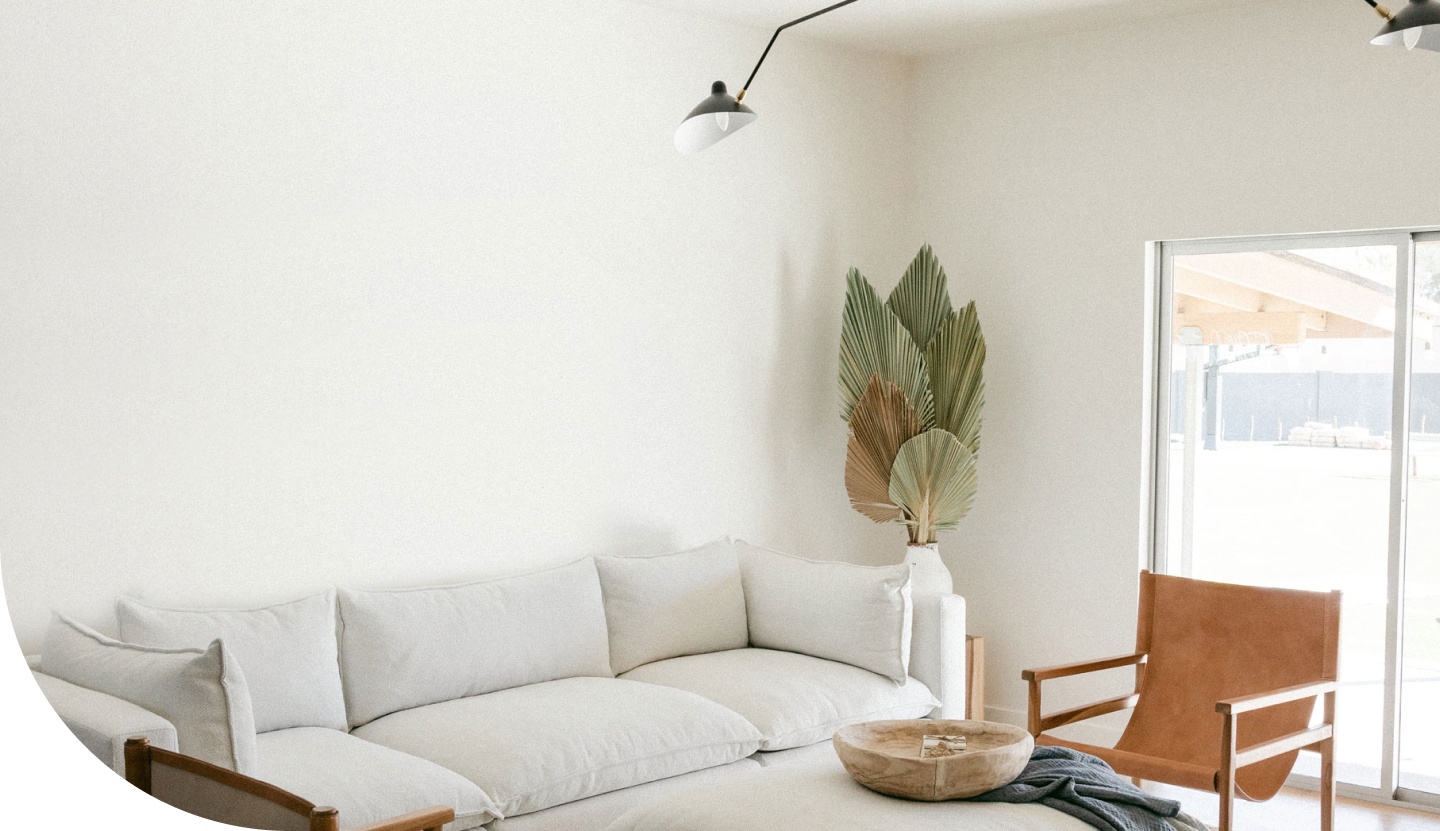
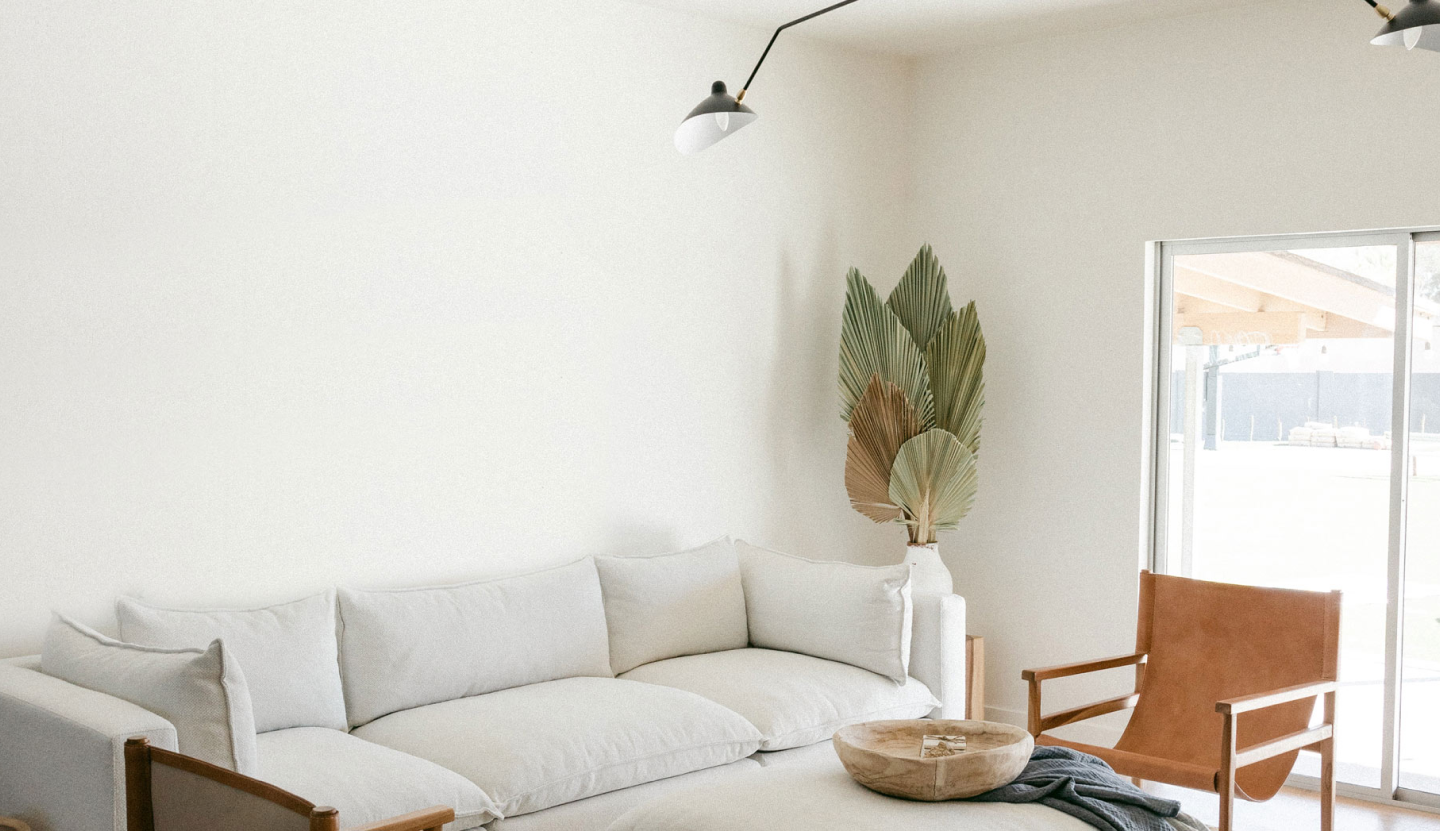
fix

Changed region(s): [[0.0, 0.722, 0.1875, 1.0]]

diff --git a/index.html b/index.html
@@ -14,7 +14,7 @@
             <a href="">
                 <img src="Assets/Images/header/logo.png" alt="">
             </a>
-            <nav class="flex items-center gap-10 text-[#292F36] max-lg:flex-col bg-white max-lg:absolute max-lg:w-full top-0 left-0 max-lg:-translate-y-full transition-all duration-500 max-lg:border-t-2 border-[#292F36] max-lg:py-4" id="menu">
+            <nav class="flex items-center gap-10 text-[#292F36] max-lg:flex-col bg-white max-lg:absolute max-lg:w-full top-0 left-0 max-lg:-translate-y-full transition-all duration-500 max-lg:border-t-2 border-[#292F36] max-lg:py-4 md:text-lg lg:text-xl" id="menu">
                 <a href="" class="text-[#CDA274]">Home</a>
                 <a href="" class="duration-500 transition-all hover:text-[#CDA274]">About Us</a>
                 <a href="" class="duration-500 transition-all hover:text-[#CDA274]">Services</a>
@@ -29,14 +29,14 @@
         </div>
     </header>  
 
-    <div class="w-full bg-[url(Assets/Images/started/main.png)] bg-cover bg-left">
+    <div class="w-full bg-[url(Assets/Images/started/main.png)] bg-cover bg-left xl:rounded-bl-[290px] overflow-hidden">
         <div class="container mx-auto flex flex-col justify-center gap-5 min-h-[600px] md:min-h-[700px] lg:min-h-[831px] px-4">
             <p class="text-[#292F36] text-5xl md:text-7xl lg:text-[80px] lg:w-1/2 lg:leading-[96px] dm-display">Let's Create Your Dream Interior</p>
             <div class="flex flex-col">
                 <p class="text-[#4D5053] md:text-lg lg:text-[22px]">The world needs innovators and problem solvers who turn</p>
                 <p class="text-[#4D5053] md:text-lg lg:text-[22px]">challenges into greater opportunities.</p>
             </div>
-            <button class="rounded-[18px] bg-[#292F36] py-4 flex items-center gap-5 w-[207px] text-white justify-center">
+            <button class="rounded-[18px] bg-[#292F36] py-4 flex items-center gap-5 w-[207px] text-white justify-center md:text-lg">
                 <span>Get Started</span>
                 <img src="Assets/Images/icons/arrow.png" alt="">
             </button>
@@ -84,7 +84,7 @@
                     <p class="text-[#4D5053] md:text-lg lg:text-[22px]">Call Us Anytime</p>
                 </div>
             </div>
-            <button class="rounded-[18px] bg-[#292F36] py-4 flex items-center gap-5 w-[263px] text-white justify-center mt-2.5">
+            <button class="rounded-[18px] bg-[#292F36] py-4 flex items-center gap-5 w-[263px] text-white justify-center mt-2.5 md:text-lg">
                 <span>Get Free Estimate</span>
                 <img src="Assets/Images/icons/arrow.png" alt="">
             </button>
@@ -213,7 +213,7 @@
     </div>
 
     <div class="w-full bg-[#F4F0EC] px-4 py-8 md:py-12 lg:py-[140px]">
-        <div class="container mx-auto flex max-md:flex-col items-center gap-12 md:gap-14 lg:gap-[72px] w-max">        
+        <div class="container mx-auto flex max-md:flex-col items-center gap-12 md:gap-14 xl:gap-[72px] w-max">        
             <div class="flex flex-col gap-6 md:gap-8 lg:gap-10 items-center">
                 <p class="text-[#CDA274] text-5xl md:text-7xl lg:text-[85px] dm-display">12</p>
                 <p class="text-[#4D5053] md:text-lg lg:text-[22px] text-center">Years Of Experiance</p>
@@ -331,14 +331,14 @@
     <div class="container mx-auto bg-[#292F36] rounded-[70px] flex flex-col gap-7 px-4 items-center justify-center py-16 md:py-20 lg:py-[100px] text-white">
         <p class="text-2xl md:text-3xl lg:text-[50px] dm-display">Wanna join the interno?</p>
         <p class="md:text-lg lg:text-[22px]">Contact Us & Get a Free Consultation</p>
-        <button class="rounded-[18px] bg-[#CDA274] py-4 flex items-center gap-5 w-[241px] justify-center mt-1">
+        <button class="rounded-[18px] bg-[#CDA274] py-4 flex items-center gap-5 w-[241px] justify-center mt-1 md:text-lg">
             <span>Connect With us</span>
             <img src="Assets/Images/icons/arrow4.png" alt="">
         </button>
     </div>
 
     <footer class="flex flex-col w-full gap-8 md:gap-12 lg:gap-20 mt-12 md:mt-20 lg:mt-[130px] px-4">
-        <div class="container mx-auto grid grid-cols-1 md:grid-cols-2 lg:grid-cols-4 gap-12 md:gap-20 lg:gap-[100px]">
+        <div class="container mx-auto grid grid-cols-1 md:grid-cols-2 lg:grid-cols-4 gap-12 md:gap-16 xl:gap-[100px]">
             <div class="flex flex-col gap-4">
                 <a href=""><img src="Assets/Images/header/logo.png" alt=""></a>
                 <p class="text-[#4D5053] md:text-lg lg:text-[22px]">We are the leading architect and interior design firm in the world.</p>
